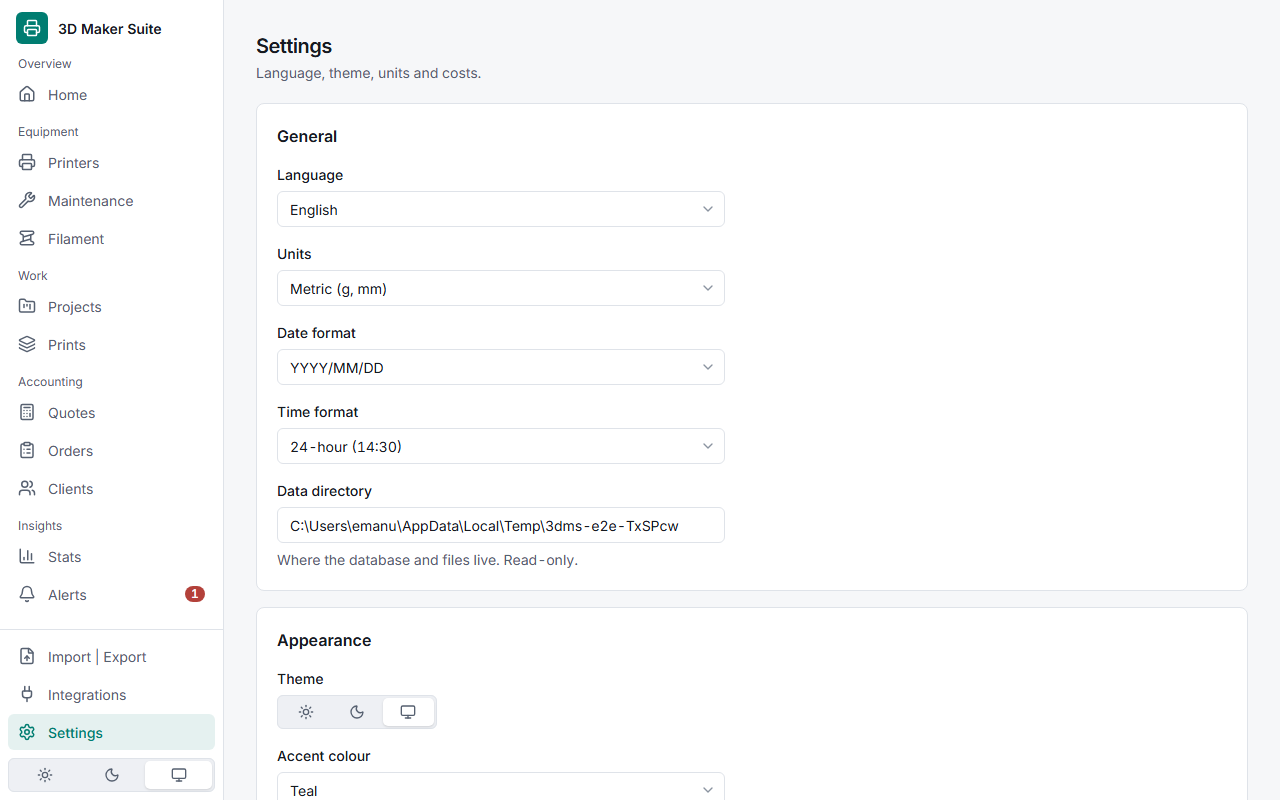
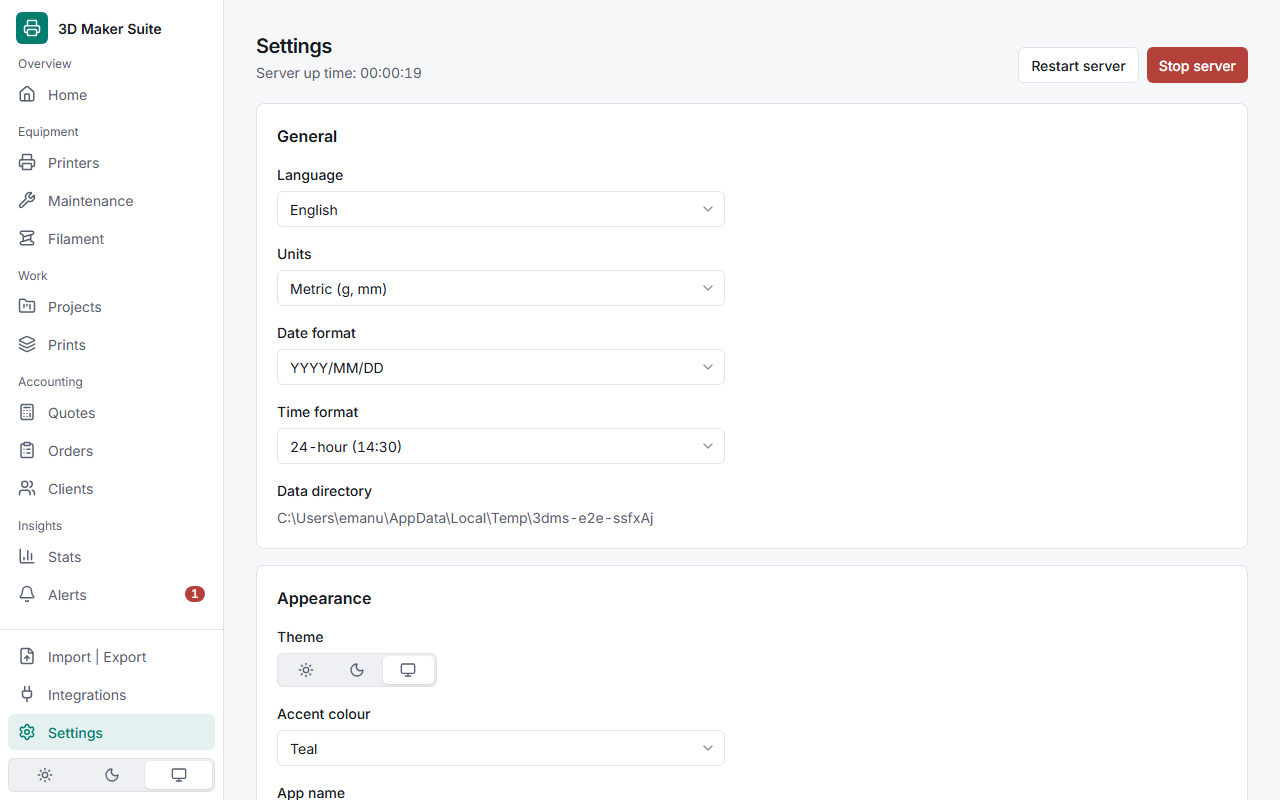
feat(alerts): open updates from the update available alert
The alert detail page gets an "Open updates" button to the update section
in Settings. Settings shows the server up time under its title, from a
startedAt field the health check now returns.

Changed region(s): [[0.2188, 0.625, 0.5312, 1.0], [0.8125, 0.0312, 1.0, 0.125], [0.1875, 0.0625, 0.375, 0.125]]

diff --git a/apps/web/src/pages/SettingsPage.tsx b/apps/web/src/pages/SettingsPage.tsx
@@ -1,9 +1,12 @@
 import { DATE_FORMATS, type Preferences } from "@3d-maker-suite/core";
+import { useQuery } from "@tanstack/react-query";
+import { useEffect, useState } from "react";
 import { useTranslation } from "react-i18next";
 import { Combobox } from "../components/Combobox.tsx";
 import { FormField } from "../components/FormField.tsx";
 import { PageHeader } from "../components/PageHeader.tsx";
 import { Section } from "../components/Section.tsx";
+import { api } from "../lib/api.ts";
 import { usePreferences, useSavePreferences } from "../lib/preferences.ts";
 import { ACCENTS, setTheme } from "../lib/theme.ts";
 import { ThemeToggle } from "../shell/ThemeToggle.tsx";
@@ -20,6 +23,27 @@ const ACCENT_LABELS = {
   rose: "settings:appearance.accents.rose",
   amber: "settings:appearance.accents.amber",
 } as const;
+
+/** Hours:minutes:seconds the server has been up, ticking each second from its reported start. */
+function ServerUptime() {
+  const { t } = useTranslation();
+  const { data } = useQuery({
+    queryKey: ["health"],
+    queryFn: () => api<{ startedAt: string }>("GET", "/api/health"),
+    refetchInterval: 30_000,
+  });
+  const [now, setNow] = useState(Date.now);
+  useEffect(() => {
+    const id = setInterval(() => setNow(Date.now()), 1000);
+    return () => clearInterval(id);
+  }, []);
+  if (!data) return null;
+  const total = Math.max(0, Math.floor((now - Date.parse(data.startedAt)) / 1000));
+  const time = [Math.floor(total / 3600), Math.floor(total / 60) % 60, total % 60]
+    .map((n) => String(n).padStart(2, "0"))
+    .join(":");
+  return t("settings:uptime", { time });
+}
 
 export function SettingsPage() {
   const { t } = useTranslation();
@@ -45,7 +69,7 @@ export function SettingsPage() {
     <>
       <PageHeader
         title={t("nav:items.settings.label")}
-        description={t("nav:items.settings.description")}
+        description={<ServerUptime />}
         actions={<ServerActions />}
       />
       {save.isError && (

diff --git a/apps/server/src/routes/health.ts b/apps/server/src/routes/health.ts
@@ -3,14 +3,18 @@ import { z } from "zod";
 import { VERSION } from "../updates/updates.ts";
 
 // The version tells the app, polling after an update, which code came back.
+// The start time lets Settings show how long this server has been up.
+const STARTED_AT = new Date().toISOString();
 export const healthRoutes: FastifyPluginAsyncZod = async (app) => {
   app.get(
     "/api/health",
     {
       schema: {
-        response: { 200: z.object({ status: z.literal("ok"), version: z.string() }) },
+        response: {
+          200: z.object({ status: z.literal("ok"), version: z.string(), startedAt: z.string() }),
+        },
       },
     },
-    async () => ({ status: "ok" as const, version: VERSION }),
+    async () => ({ status: "ok" as const, version: VERSION, startedAt: STARTED_AT }),
   );
 };

diff --git a/apps/web/src/pages/alerts/AlertDetailPage.tsx b/apps/web/src/pages/alerts/AlertDetailPage.tsx
@@ -157,6 +157,11 @@ export function AlertDetailPage() {
                 {t("alerts:view.openIntegration")}
               </Link>
             )}
+            {a.kind === "update_available" && (
+              <Link to="/settings" hash="updates" className={buttonLink}>
+                {t("alerts:view.openUpdates")}
+              </Link>
+            )}
             {a.kind.startsWith("slice_") && (
               <Link
                 to="/projects/$id/edit"

diff --git a/apps/server/src/app.test.ts b/apps/server/src/app.test.ts
@@ -19,6 +19,7 @@ describe("api", () => {
     expect((await app.inject("/api/health")).json()).toEqual({
       status: "ok",
       version: expect.stringMatching(/^\d+\.\d+\.\d+/),
+      startedAt: expect.any(String),
     });
     const spec = (await app.inject("/api/docs/json")).json();
     expect(spec.paths["/api/printers/{id}"]).toBeDefined();

diff --git a/apps/web/src/components/PageHeader.tsx b/apps/web/src/components/PageHeader.tsx
@@ -9,7 +9,7 @@ export function PageHeader({
   backTo,
 }: {
   title: string;
-  description?: string;
+  description?: ReactNode;
   actions?: ReactNode;
   /** Fallback route for the back link, used when there is no in-app history. */
   backTo?: { to: LinkProps["to"]; params?: Record<string, string> };

diff --git a/PLAN.md b/PLAN.md
@@ -340,7 +340,7 @@ Do Step 4 of the 4.1.1 plan in PLAN.md. Find why the installer's start option op
 browser before changing anything.
 ```
 
-### [ ] Step 5 - Update available alert: call to action
+### [x] Step 5 - Update available alert: call to action
 **Model:** Haiku · **Effort:** Low
 **Scope:** the update available alert gets an "Open updates" call to action to the update section in Settings (anchor), on the alert detail page (list rows keep only their own actions, Step 9).
 **Done when:** the button opens Settings at the update section; i18n:check passes; tests pass.
